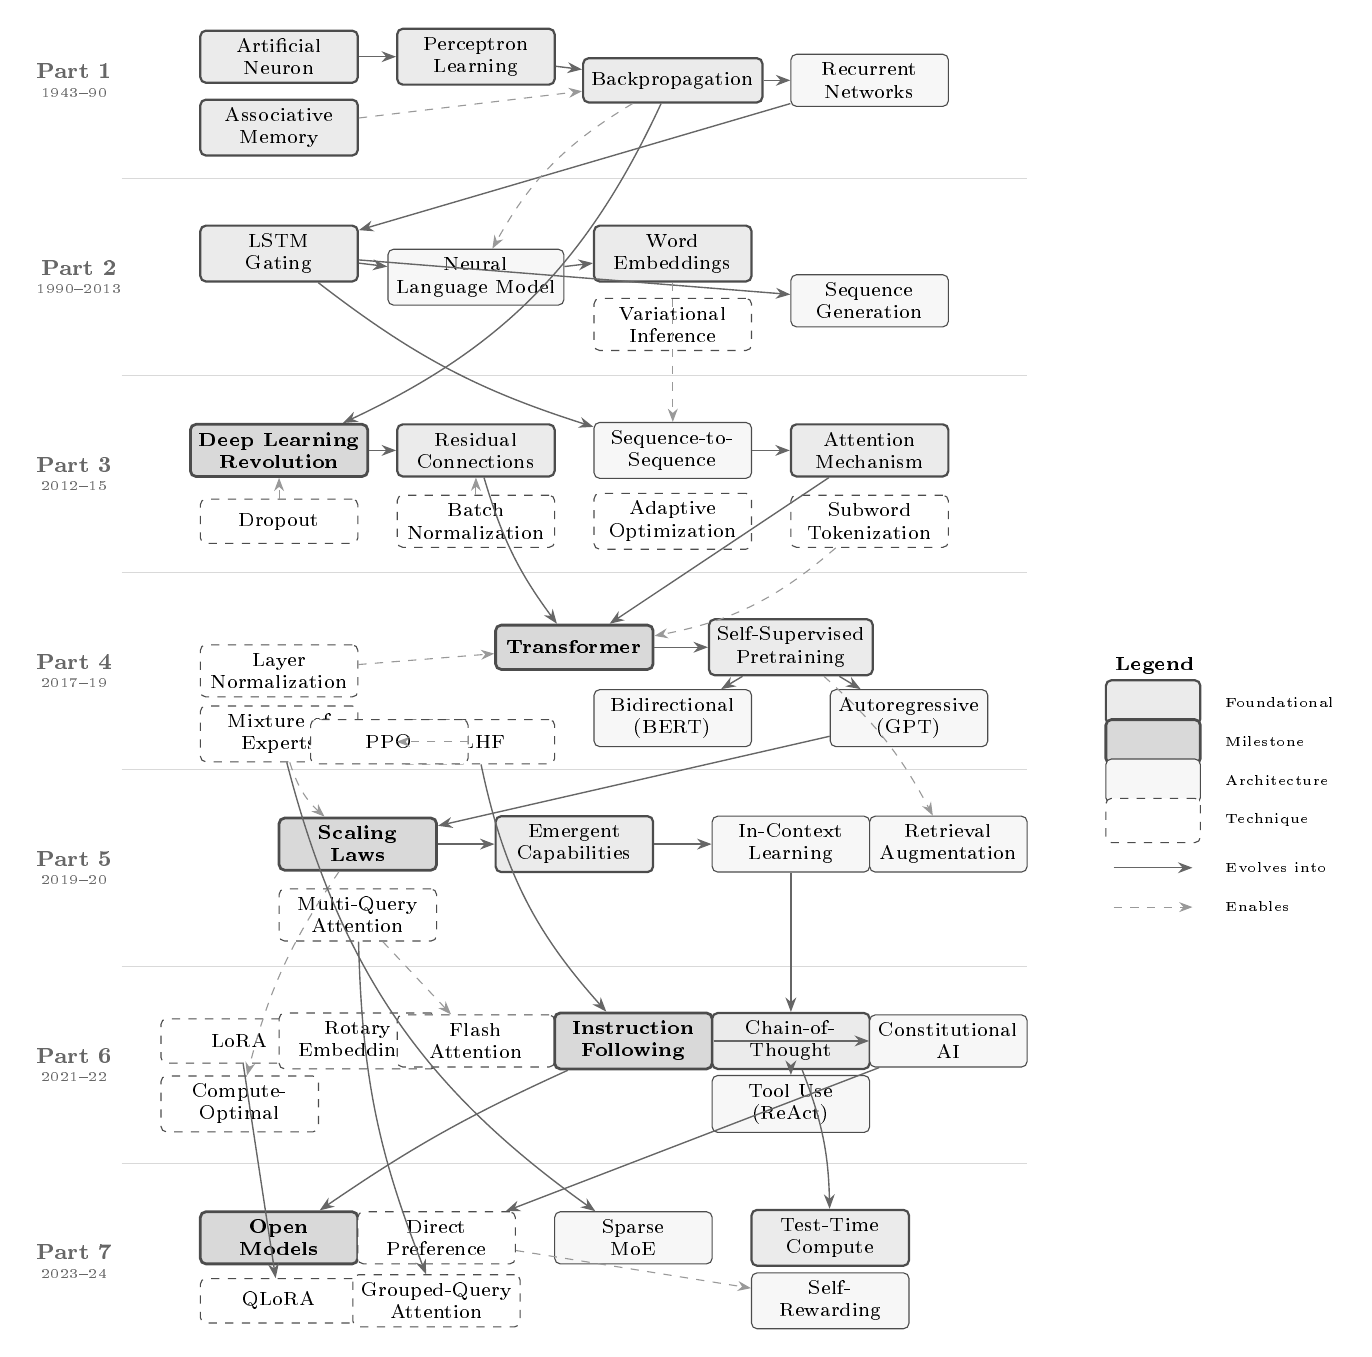
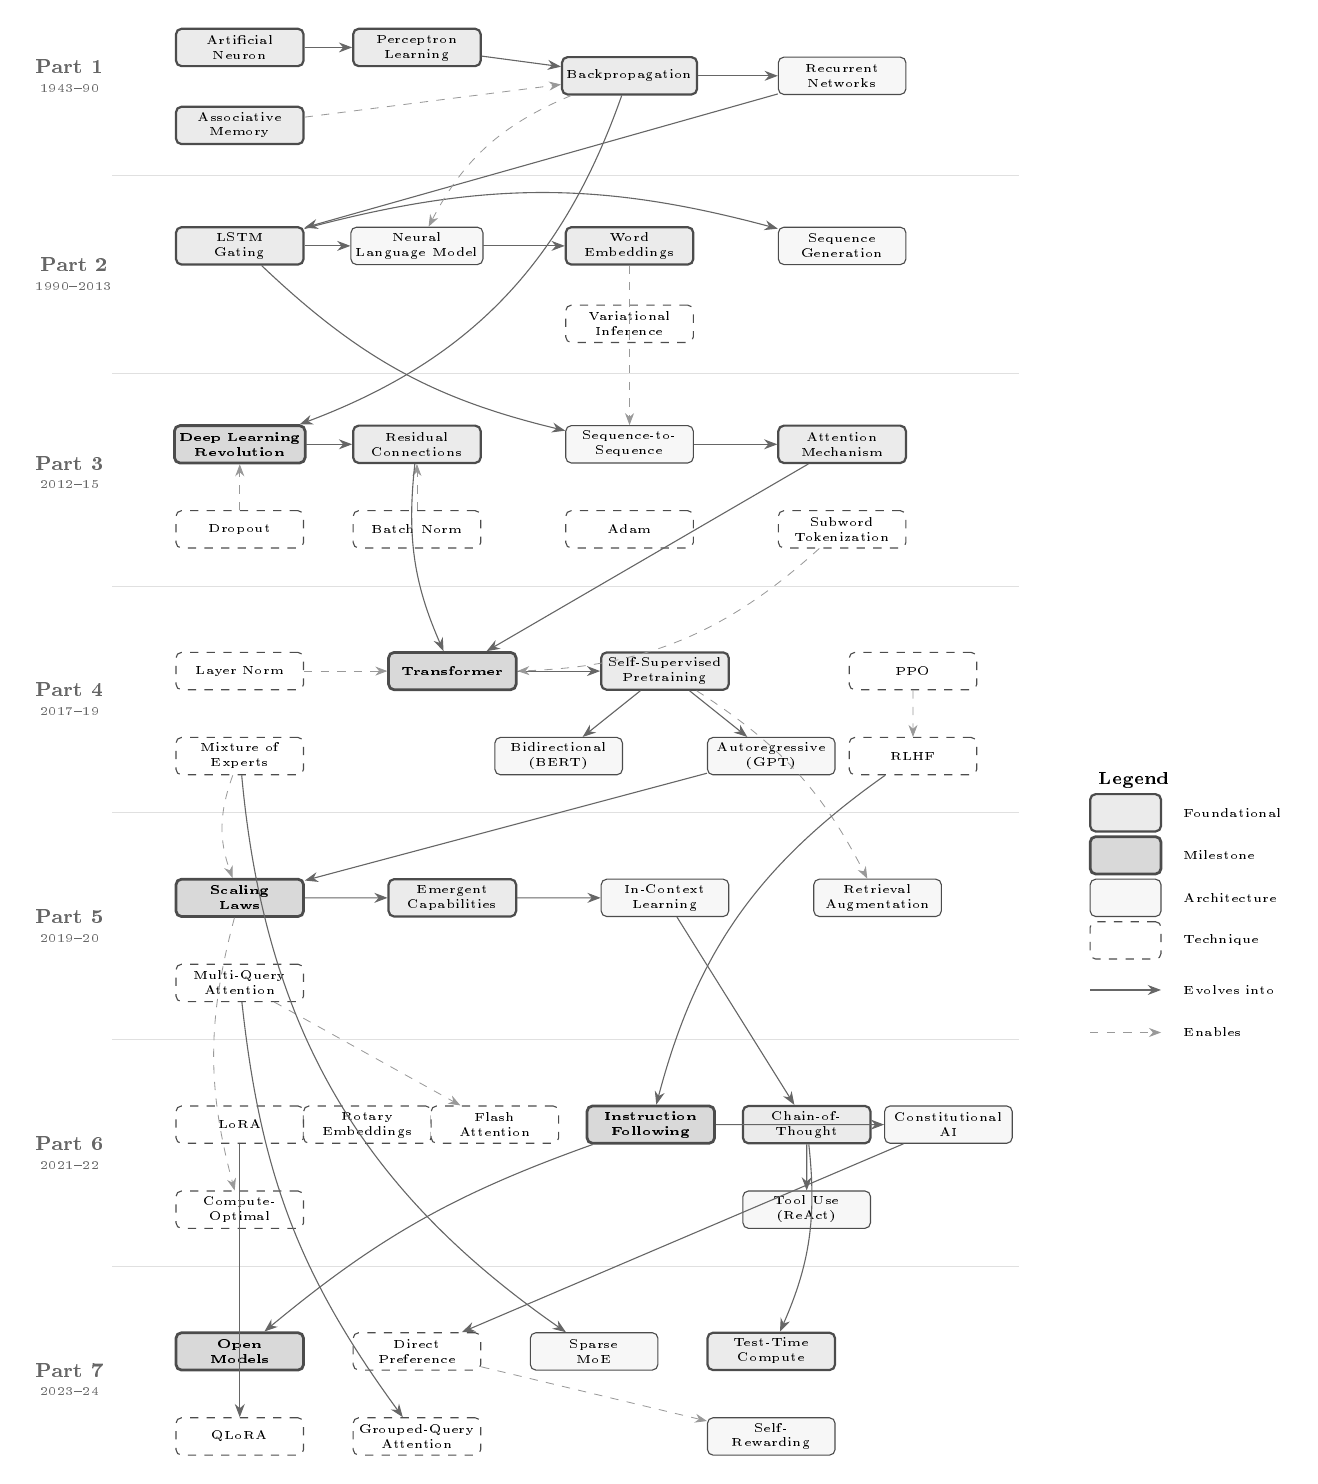
Fix layout issues in concept family tree diagram
- Increase vertical spacing between eras (from ~2.5 to ~3.2 units)
- Increase horizontal spacing between nodes
- Reduce node size slightly (1.8cm width, tiny font)
- Add 0.9 scale factor for better fit
- Reorganize node positions to prevent overlapping
- Ensure each row has adequate vertical clearance

diff --git a/content/concept-family-tree.tex b/content/concept-family-tree.tex
@@ -4,6 +4,8 @@
 \begin{figure}[p]
 \centering
 \begin{tikzpicture}[
+    scale=0.9,
+    transform shape,
     % Node styles
     era/.style={
         font=\footnotesize\bfseries,
@@ -14,11 +16,11 @@
         draw=black!70,
         fill=white,
         rounded corners=2pt,
-        minimum height=1.6em,
-        minimum width=2cm,
-        font=\scriptsize,
+        minimum height=1.5em,
+        minimum width=1.8cm,
+        font=\tiny,
         align=center,
-        inner sep=3pt
+        inner sep=2pt
     },
     foundational/.style={
         concept,
@@ -38,53 +40,46 @@
         concept,
         fill=black!15,
         line width=1pt,
-        font=\scriptsize\bfseries
+        font=\tiny\bfseries
     },
     % Edge styles
     evolves/.style={
         ->,
         >=Stealth,
-        line width=0.5pt,
+        line width=0.4pt,
         black!60
     },
     enables/.style={
         ->,
         >=Stealth,
-        line width=0.4pt,
+        line width=0.3pt,
         black!40,
         dashed
-    },
-    combines/.style={
-        ->,
-        >=Stealth,
-        line width=0.6pt,
-        black!50,
-        densely dotted
     }
 ]
 
 % Era labels (left side) with years below
-\node[era, align=center] at (-6.2, 0) {Part 1\\[-0.3em]{\tiny\mdseries 1943--90}};
-\node[era, align=center] at (-6.2, -2.5) {Part 2\\[-0.3em]{\tiny\mdseries 1990--2013}};
-\node[era, align=center] at (-6.2, -5) {Part 3\\[-0.3em]{\tiny\mdseries 2012--15}};
-\node[era, align=center] at (-6.2, -7.5) {Part 4\\[-0.3em]{\tiny\mdseries 2017--19}};
-\node[era, align=center] at (-6.2, -10) {Part 5\\[-0.3em]{\tiny\mdseries 2019--20}};
-\node[era, align=center] at (-6.2, -12.5) {Part 6\\[-0.3em]{\tiny\mdseries 2021--22}};
-\node[era, align=center] at (-6.2, -15) {Part 7\\[-0.3em]{\tiny\mdseries 2023--24}};
+\node[era, align=center] at (-7, 0) {Part 1\\[-0.2em]{\tiny\mdseries 1943--90}};
+\node[era, align=center] at (-7, -2.8) {Part 2\\[-0.2em]{\tiny\mdseries 1990--2013}};
+\node[era, align=center] at (-7, -5.6) {Part 3\\[-0.2em]{\tiny\mdseries 2012--15}};
+\node[era, align=center] at (-7, -8.8) {Part 4\\[-0.2em]{\tiny\mdseries 2017--19}};
+\node[era, align=center] at (-7, -12) {Part 5\\[-0.2em]{\tiny\mdseries 2019--20}};
+\node[era, align=center] at (-7, -15.2) {Part 6\\[-0.2em]{\tiny\mdseries 2021--22}};
+\node[era, align=center] at (-7, -18.4) {Part 7\\[-0.2em]{\tiny\mdseries 2023--24}};
 
 % Horizontal era separators
-\foreach \y in {-1.25, -3.75, -6.25, -8.75, -11.25, -13.75} {
-    \draw[black!15, line width=0.3pt] (-5, \y) -- (6.5, \y);
+\foreach \y in {-1.4, -4.2, -7.2, -10.4, -13.6, -16.8} {
+    \draw[black!12, line width=0.3pt] (-5.8, \y) -- (7, \y);
 }
 
 % ============================================
 % PART I: Neural Beginnings (1943-1990)
 % ============================================
 
-\node[foundational] (neuron) at (-3, 0.3) {Artificial\\Neuron};
-\node[foundational] (perceptron) at (-0.5, 0.3) {Perceptron\\Learning};
-\node[foundational] (hopfield) at (-3, -0.6) {Associative\\Memory};
-\node[foundational] (backprop) at (2, 0) {Backpropagation};
+\node[foundational] (neuron) at (-4, 0.4) {Artificial\\Neuron};
+\node[foundational] (perceptron) at (-1.5, 0.4) {Perceptron\\Learning};
+\node[foundational] (hopfield) at (-4, -0.7) {Associative\\Memory};
+\node[foundational] (backprop) at (1.5, 0) {Backpropagation};
 \node[architectural] (rnn) at (4.5, 0) {Recurrent\\Networks};
 
 \draw[evolves] (neuron) -- (perceptron);
@@ -96,141 +91,141 @@
 % PART II: Sequence Models (1990-2013)
 % ============================================
 
-\node[foundational] (lstm) at (-3, -2.2) {LSTM\\Gating};
-\node[architectural] (nplm) at (-0.5, -2.5) {Neural\\Language Model};
-\node[foundational] (embeddings) at (2, -2.2) {Word\\Embeddings};
-\node[architectural] (seqgen) at (4.5, -2.8) {Sequence\\Generation};
-\node[technique] (varinf) at (2, -3.1) {Variational\\Inference};
+\node[foundational] (lstm) at (-4, -2.4) {LSTM\\Gating};
+\node[architectural] (nplm) at (-1.5, -2.4) {Neural\\Language Model};
+\node[foundational] (embeddings) at (1.5, -2.4) {Word\\Embeddings};
+\node[architectural] (seqgen) at (4.5, -2.4) {Sequence\\Generation};
+\node[technique] (varinf) at (1.5, -3.5) {Variational\\Inference};
 
 \draw[evolves] (rnn) -- (lstm);
 \draw[evolves] (lstm) -- (nplm);
 \draw[evolves] (nplm) -- (embeddings);
-\draw[evolves] (lstm) -- (seqgen);
-\draw[enables] (backprop) to[bend right=15] (nplm);
+\draw[evolves] (lstm) to[bend left=15] (seqgen);
+\draw[enables] (backprop) to[bend right=20] (nplm);
 
 % ============================================
 % PART III: Deep Learning & Attention (2012-2015)
 % ============================================
 
-\node[milestone] (deeplearning) at (-3, -4.7) {Deep Learning\\Revolution};
-\node[technique] (dropout) at (-3, -5.6) {Dropout};
-\node[technique] (batchnorm) at (-0.5, -5.6) {Batch\\Normalization};
-\node[foundational] (resnet) at (-0.5, -4.7) {Residual\\Connections};
-\node[architectural] (seq2seq) at (2, -4.7) {Sequence-to-\\Sequence};
-\node[foundational] (attention) at (4.5, -4.7) {Attention\\Mechanism};
-\node[technique] (bpe) at (4.5, -5.6) {Subword\\Tokenization};
-\node[technique] (adam) at (2, -5.6) {Adaptive\\Optimization};
+\node[milestone] (deeplearning) at (-4, -5.2) {Deep Learning\\Revolution};
+\node[foundational] (resnet) at (-1.5, -5.2) {Residual\\Connections};
+\node[architectural] (seq2seq) at (1.5, -5.2) {Sequence-to-\\Sequence};
+\node[foundational] (attention) at (4.5, -5.2) {Attention\\Mechanism};
+\node[technique] (dropout) at (-4, -6.4) {Dropout};
+\node[technique] (batchnorm) at (-1.5, -6.4) {Batch Norm};
+\node[technique] (adam) at (1.5, -6.4) {Adam};
+\node[technique] (bpe) at (4.5, -6.4) {Subword\\Tokenization};
 
-\draw[evolves] (backprop) to[bend left=20] (deeplearning);
+\draw[evolves] (backprop) to[bend left=25] (deeplearning);
 \draw[evolves] (deeplearning) -- (resnet);
+\draw[evolves] (lstm) to[bend right=15] (seq2seq);
+\draw[evolves] (seq2seq) -- (attention);
 \draw[enables] (dropout) -- (deeplearning);
 \draw[enables] (batchnorm) -- (resnet);
-\draw[evolves] (lstm) to[bend right=10] (seq2seq);
-\draw[evolves] (seq2seq) -- (attention);
 \draw[enables] (embeddings) -- (seq2seq);
 
 % ============================================
 % PART IV: Transformer Era (2017-2019)
 % ============================================
 
-\node[milestone] (transformer) at (0.75, -7.2) {Transformer};
-\node[technique] (layernorm) at (-3, -7.5) {Layer\\Normalization};
-\node[technique] (moe) at (-3, -8.3) {Mixture of\\Experts};
-\node[foundational] (pretrain) at (3.5, -7.2) {Self-Supervised\\Pretraining};
-\node[architectural] (bert) at (2, -8.1) {Bidirectional\\(BERT)};
-\node[architectural] (gpt) at (5, -8.1) {Autoregressive\\(GPT)};
-\node[technique] (rlhf) at (-0.5, -8.4) {RLHF};
-\node[technique] (ppo) at (-1.6, -8.4) {PPO};
+\node[technique] (layernorm) at (-4, -8.4) {Layer Norm};
+\node[technique] (moe) at (-4, -9.6) {Mixture of\\Experts};
+\node[milestone] (transformer) at (-1, -8.4) {Transformer};
+\node[foundational] (pretrain) at (2, -8.4) {Self-Supervised\\Pretraining};
+\node[architectural] (bert) at (0.5, -9.6) {Bidirectional\\(BERT)};
+\node[architectural] (gpt) at (3.5, -9.6) {Autoregressive\\(GPT)};
+\node[technique] (ppo) at (5.5, -8.4) {PPO};
+\node[technique] (rlhf) at (5.5, -9.6) {RLHF};
 
 \draw[evolves] (attention) -- (transformer);
-\draw[evolves] (resnet) to[bend right=10] (transformer);
+\draw[evolves] (resnet) to[bend right=15] (transformer);
 \draw[enables] (layernorm) -- (transformer);
 \draw[evolves] (transformer) -- (pretrain);
 \draw[evolves] (pretrain) -- (bert);
 \draw[evolves] (pretrain) -- (gpt);
-\draw[enables] (bpe) to[bend left=15] (transformer);
+\draw[enables] (bpe) to[bend left=20] (transformer);
 \draw[enables] (ppo) -- (rlhf);
 
 % ============================================
 % PART V: Emergence and Scale (2019-2020)
 % ============================================
 
-\node[milestone] (scaling) at (-2, -9.7) {Scaling\\Laws};
-\node[foundational] (emergence) at (0.75, -9.7) {Emergent\\Capabilities};
-\node[architectural] (fewshot) at (3.5, -9.7) {In-Context\\Learning};
-\node[architectural] (rag) at (5.5, -9.7) {Retrieval\\Augmentation};
-\node[technique] (mqa) at (-2, -10.6) {Multi-Query\\Attention};
+\node[milestone] (scaling) at (-4, -11.6) {Scaling\\Laws};
+\node[foundational] (emergence) at (-1, -11.6) {Emergent\\Capabilities};
+\node[architectural] (fewshot) at (2, -11.6) {In-Context\\Learning};
+\node[architectural] (rag) at (5, -11.6) {Retrieval\\Augmentation};
+\node[technique] (mqa) at (-4, -12.8) {Multi-Query\\Attention};
 
 \draw[evolves] (gpt) -- (scaling);
 \draw[evolves] (scaling) -- (emergence);
 \draw[evolves] (emergence) -- (fewshot);
-\draw[enables] (pretrain) to[bend left=10] (rag);
-\draw[enables] (moe) to[bend right=15] (scaling);
+\draw[enables] (pretrain) to[bend left=15] (rag);
+\draw[enables] (moe) to[bend right=20] (scaling);
 
 % ============================================
 % PART VI: Efficiency, Alignment, Reasoning (2021-2022)
 % ============================================
 
-\node[technique] (lora) at (-3.5, -12.2) {LoRA};
-\node[technique] (rope) at (-2, -12.2) {Rotary\\Embeddings};
-\node[technique] (flash) at (-0.5, -12.2) {Flash\\Attention};
-\node[milestone] (instruct) at (1.5, -12.2) {Instruction\\Following};
-\node[foundational] (cot) at (3.5, -12.2) {Chain-of-\\Thought};
-\node[architectural] (constitutional) at (5.5, -12.2) {Constitutional\\AI};
-\node[technique] (chinchilla) at (-3.5, -13) {Compute-\\Optimal};
-\node[architectural] (react) at (3.5, -13) {Tool Use\\(ReAct)};
+\node[technique] (lora) at (-4, -14.8) {LoRA};
+\node[technique] (rope) at (-2.2, -14.8) {Rotary\\Embeddings};
+\node[technique] (flash) at (-0.4, -14.8) {Flash\\Attention};
+\node[milestone] (instruct) at (1.8, -14.8) {Instruction\\Following};
+\node[foundational] (cot) at (4, -14.8) {Chain-of-\\Thought};
+\node[architectural] (constitutional) at (6, -14.8) {Constitutional\\AI};
+\node[technique] (chinchilla) at (-4, -16) {Compute-\\Optimal};
+\node[architectural] (react) at (4, -16) {Tool Use\\(ReAct)};
 
-\draw[evolves] (rlhf) to[bend right=15] (instruct);
+\draw[evolves] (rlhf) to[bend right=20] (instruct);
 \draw[evolves] (fewshot) -- (cot);
 \draw[evolves] (instruct) -- (constitutional);
 \draw[evolves] (cot) -- (react);
-\draw[enables] (scaling) to[bend right=10] (chinchilla);
+\draw[enables] (scaling) to[bend right=15] (chinchilla);
 \draw[enables] (mqa) -- (flash);
 
 % ============================================
 % PART VII: Open LLMs and Modern Frontier (2023-2024)
 % ============================================
 
-\node[milestone] (openmodels) at (-3, -14.7) {Open\\Models};
-\node[technique] (dpo) at (-1, -14.7) {Direct\\Preference};
-\node[technique] (qlora) at (-3, -15.5) {QLoRA};
-\node[technique] (gqa) at (-1, -15.5) {Grouped-Query\\Attention};
-\node[architectural] (moescale) at (1.5, -14.7) {Sparse\\MoE};
-\node[foundational] (testtime) at (4, -14.7) {Test-Time\\Compute};
-\node[architectural] (selfreward) at (4, -15.5) {Self-\\Rewarding};
+\node[milestone] (openmodels) at (-4, -18) {Open\\Models};
+\node[technique] (dpo) at (-1.5, -18) {Direct\\Preference};
+\node[architectural] (moescale) at (1, -18) {Sparse\\MoE};
+\node[foundational] (testtime) at (3.5, -18) {Test-Time\\Compute};
+\node[technique] (qlora) at (-4, -19.2) {QLoRA};
+\node[technique] (gqa) at (-1.5, -19.2) {Grouped-Query\\Attention};
+\node[architectural] (selfreward) at (3.5, -19.2) {Self-\\Rewarding};
 
-\draw[evolves] (instruct) to[bend right=5] (openmodels);
+\draw[evolves] (instruct) to[bend right=10] (openmodels);
 \draw[evolves] (constitutional) -- (dpo);
 \draw[evolves] (lora) -- (qlora);
-\draw[evolves] (mqa) to[bend right=10] (gqa);
-\draw[evolves] (moe) to[bend right=20] (moescale);
-\draw[evolves] (cot) to[bend left=10] (testtime);
+\draw[evolves] (mqa) to[bend right=15] (gqa);
+\draw[evolves] (moe) to[bend right=25] (moescale);
+\draw[evolves] (cot) to[bend left=15] (testtime);
 \draw[enables] (dpo) -- (selfreward);
 
 % ============================================
 % Legend
 % ============================================
 
-\begin{scope}[shift={(7.5, -7.5)}]
+\begin{scope}[shift={(8, -10)}]
     \node[font=\scriptsize\bfseries, anchor=north west] at (0, 0.3) {Legend};
 
-    \node[foundational, minimum width=1.2cm] (leg1) at (0.6, -0.4) {};
-    \node[font=\tiny, anchor=west] at (1.4, -0.4) {Foundational};
+    \node[foundational, minimum width=1cm] at (0.5, -0.4) {};
+    \node[font=\tiny, anchor=west] at (1.2, -0.4) {Foundational};
 
-    \node[milestone, minimum width=1.2cm] (leg2) at (0.6, -0.9) {};
-    \node[font=\tiny, anchor=west] at (1.4, -0.9) {Milestone};
+    \node[milestone, minimum width=1cm] at (0.5, -1) {};
+    \node[font=\tiny, anchor=west] at (1.2, -1) {Milestone};
 
-    \node[architectural, minimum width=1.2cm] (leg3) at (0.6, -1.4) {};
-    \node[font=\tiny, anchor=west] at (1.4, -1.4) {Architecture};
+    \node[architectural, minimum width=1cm] at (0.5, -1.6) {};
+    \node[font=\tiny, anchor=west] at (1.2, -1.6) {Architecture};
 
-    \node[technique, minimum width=1.2cm] (leg4) at (0.6, -1.9) {};
-    \node[font=\tiny, anchor=west] at (1.4, -1.9) {Technique};
+    \node[technique, minimum width=1cm] at (0.5, -2.2) {};
+    \node[font=\tiny, anchor=west] at (1.2, -2.2) {Technique};
 
-    \draw[evolves] (0.1, -2.5) -- (1.1, -2.5);
-    \node[font=\tiny, anchor=west] at (1.4, -2.5) {Evolves into};
+    \draw[evolves] (0, -2.9) -- (1, -2.9);
+    \node[font=\tiny, anchor=west] at (1.2, -2.9) {Evolves into};
 
-    \draw[enables] (0.1, -3) -- (1.1, -3);
-    \node[font=\tiny, anchor=west] at (1.4, -3) {Enables};
+    \draw[enables] (0, -3.5) -- (1, -3.5);
+    \node[font=\tiny, anchor=west] at (1.2, -3.5) {Enables};
 \end{scope}
 
 \end{tikzpicture}
